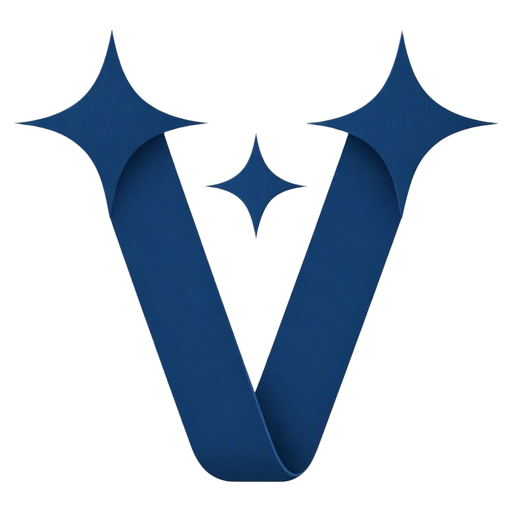
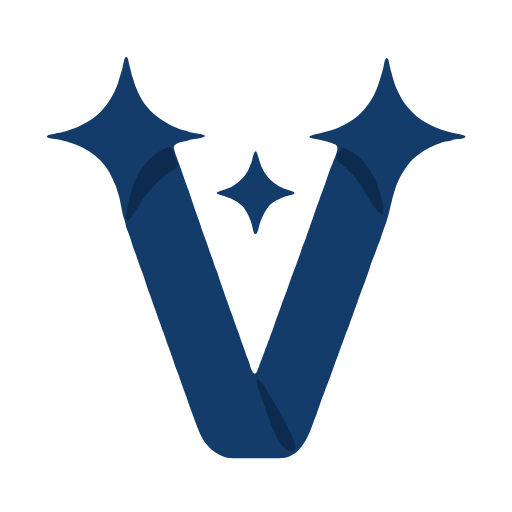
feat(ds): marca de Vastio en SVG
La marca (la V) pasa de PNG de baja resolución a SVG, azul y blanca. Los íconos
de la app instalada se regeneran desde el SVG y el SVG queda como favicon.

diff --git a/frontend/src/ds/components/Logo.tsx b/frontend/src/ds/components/Logo.tsx
@@ -10,18 +10,20 @@ export interface LogoProps {
 
 /**
  * Logo de Vastio desde los archivos de public/brand. En tema oscuro usa la versión -reverse.
+ * La marca es SVG (nítida en cualquier tamaño); el completo sigue en PNG hasta tener el wordmark en SVG.
  * No se recolorea ni se reescribe el wordmark con tipografía.
  */
 export function Logo({ variant = 'completo', reverse, className }: LogoProps) {
   const base = variant === 'completo' ? 'vastio-logo' : 'vastio-mark';
+  const ext = variant === 'completo' ? 'png' : 'svg';
   return (
     <span className={cx('v-brand', `v-brand--${variant}`, className)}>
       {reverse ? (
-        <img src={`/brand/${base}-reverse.png`} alt="Vastio" />
+        <img src={`/brand/${base}-reverse.${ext}`} alt="Vastio" />
       ) : (
         <>
-          <img src={`/brand/${base}.png`} alt="Vastio" className="v-brand__claro" />
-          <img src={`/brand/${base}-reverse.png`} alt="Vastio" className="v-brand__oscuro" />
+          <img src={`/brand/${base}.${ext}`} alt="Vastio" className="v-brand__claro" />
+          <img src={`/brand/${base}-reverse.${ext}`} alt="Vastio" className="v-brand__oscuro" />
         </>
       )}
     </span>

diff --git a/frontend/index.html b/frontend/index.html
@@ -4,6 +4,7 @@
     <meta charset="UTF-8" />
     <meta name="viewport" content="width=device-width, initial-scale=1.0, viewport-fit=cover" />
     <meta name="theme-color" content="#153e6c" />
+    <link rel="icon" type="image/svg+xml" href="/brand/vastio-mark.svg" />
     <link rel="icon" type="image/png" href="/brand/icon-192.png" />
     <link rel="apple-touch-icon" href="/brand/icon-192.png" />
     <title>Vastio</title>

diff --git a/frontend/src/ds/components/Fichero.test.tsx b/frontend/src/ds/components/Fichero.test.tsx
@@ -150,6 +150,6 @@ describe('Logo reverse', () => {
     render(<Logo variant="marca" reverse />);
     const imagenes = screen.getAllByRole('img', { name: 'Vastio' });
     expect(imagenes).toHaveLength(1);
-    expect(imagenes[0]).toHaveAttribute('src', '/brand/vastio-mark-reverse.png');
+    expect(imagenes[0]).toHaveAttribute('src', '/brand/vastio-mark-reverse.svg');
   });
 });

diff --git a/frontend/vite.config.ts b/frontend/vite.config.ts
@@ -10,7 +10,7 @@ export default defineConfig(({ mode }) => ({
     // la interfaz (JS, CSS, fuentes, íconos), nunca respuestas de /api.
     VitePWA({
       registerType: 'autoUpdate',
-      includeAssets: ['brand/icon-192.png'],
+      includeAssets: ['brand/icon-192.png', 'brand/vastio-mark.svg'],
       manifest: {
         name: 'Vastio',
         short_name: 'Vastio',
